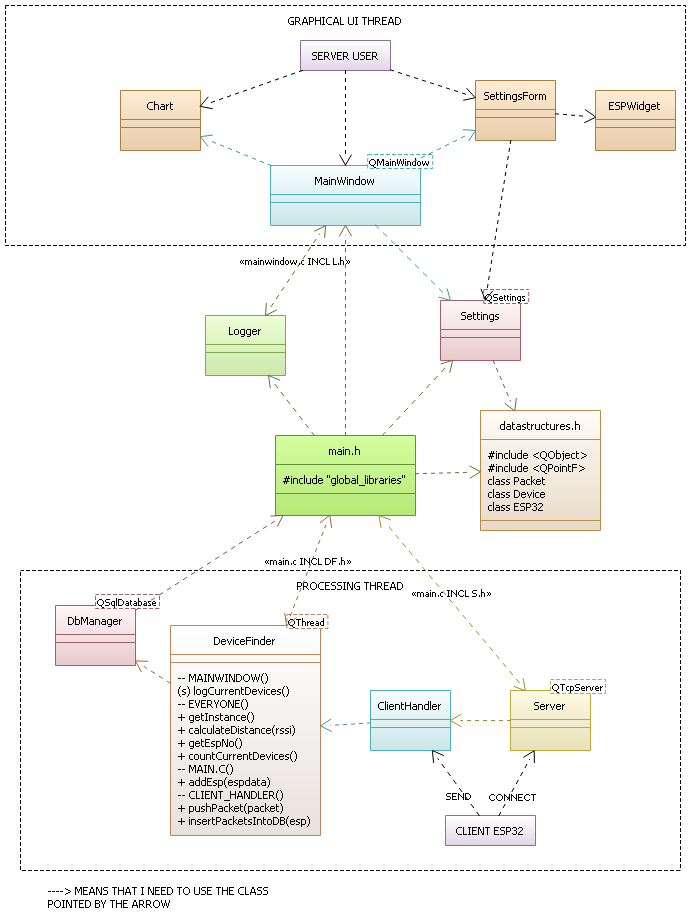
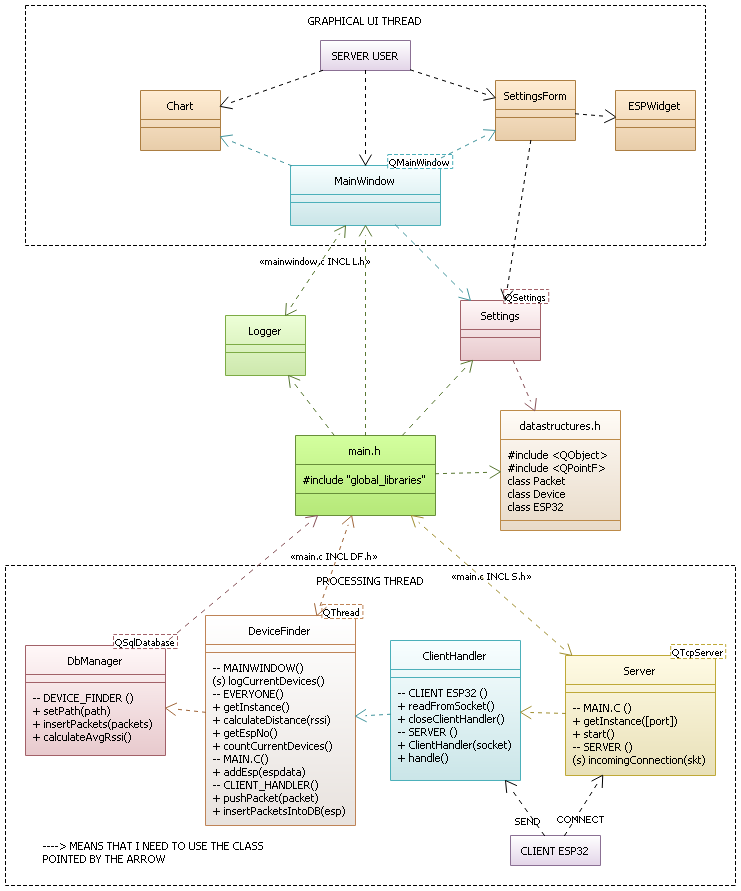
Refactored Server, ClientHandler and DbManager

diff --git a/dbmanager.cpp b/dbmanager.cpp
@@ -98,7 +98,7 @@ bool DbManager::createTables()
 /**
  * @brief Add a packet in the db
  */
-bool DbManager::addPacket(Packet r)
+bool DbManager::addPacket(Packet p)
 {
     writeLog("#DbManager");
     QSqlQuery query;
@@ -116,12 +116,12 @@ bool DbManager::addPacket(Packet r)
                   "VALUES (:id, :sender_mac, :timestamp, :rssi, :hashed_pkt,"
                   ":ssid, :espName)");
     query.bindValue(":id", id);
-    query.bindValue(":sender_mac", r.sender_mac);
-    query.bindValue(":timestamp", r.timestamp);
-    query.bindValue(":rssi", r.rssi);
-    query.bindValue(":hashed_pkt", r.hashed_pkt);
-    query.bindValue(":ssid", r.ssid);
-    query.bindValue(":espName", r.espName);
+    query.bindValue(":sender_mac", p.sender_mac);
+    query.bindValue(":timestamp", p.timestamp);
+    query.bindValue(":rssi", p.rssi);
+    query.bindValue(":hashed_pkt", p.hashed_pkt);
+    query.bindValue(":ssid", p.ssid);
+    query.bindValue(":espName", p.espName);
 
     res = query.exec();
     writeLog("Packet inserted: " + QString::number(res) + "/1" );
@@ -129,7 +129,7 @@ bool DbManager::addPacket(Packet r)
     return res;
 }
 
-bool DbManager::addPackets(QVector<Packet> packets)
+bool DbManager::insertPackets(QVector<Packet> packets)
 {
     writeLog("#DbManager");
     QSqlQuery query;
@@ -217,20 +217,6 @@ void DbManager::test()
         writeLog("id: " + QString::number(id));
         QString sender_mac = query.value(1).toString();
         writeLog("sender_mac: " + sender_mac);  
-    }
-}
-
-bool DbManager::saveCsv(Packet &r, const QString& path)
-{
-    QFile file(path);
-
-    if(file.open(QFile::WriteOnly | QIODevice::Append)) {
-        QTextStream stream(&file);
-        stream << r.toString() << endl;
-        file.close();
-        return true;
-    }else{
-        return false;
     }
 }
 

diff --git a/clienthandler.cpp b/clienthandler.cpp
@@ -52,11 +52,11 @@ void ClientHandler::handle()
     // (and when it disconnects)
     // note - Qt::DirectConnection
     //        This makes the slot to be invoked immediately, when the signal is emitted.
-    connect(socket, SIGNAL(readyRead()),
-            this, SLOT(readyRead()),
+    connect(socket, SIGNAL(readFromSocket()),
+            this, SLOT(readFromSocket()),
             Qt::DirectConnection);
-    connect(socket, SIGNAL(disconnected()),
-            this, SLOT(disconnected()));
+    connect(socket, SIGNAL(closeClientHandler()),
+            this, SLOT(closeClientHandler()));
 
     // alternative connect syntax with lambda
     //    connect(socket, &QTcpSocket::readyRead,
@@ -73,7 +73,7 @@ void ClientHandler::handle()
  *
  * @todo: add catch for runtime exceptions (like the socket already closed)
  */
-void ClientHandler::readyRead()
+void ClientHandler::readFromSocket()
 {
     writeLog("#ClientHandler");
     // get the information
@@ -177,7 +177,7 @@ void ClientHandler::readyRead()
 /**
  * @brief Callback called when the client disconnects
  */
-void ClientHandler::disconnected()
+void ClientHandler::closeClientHandler()
 {
     writeLog("#ClientHandler");
     writeLog(QString::number(socketDescriptor) + " Disconnected.");

diff --git a/devicefinder.cpp b/devicefinder.cpp
@@ -120,7 +120,7 @@ void DeviceFinder::pushPacket(Packet p)
 {
     writeLog("#DeviceFinder");
     writeLog("Received pkt\n" + p.toString());
-    db.saveCsv(p);
+    Logger::saveCsv(p);
     packets.push_back(p);
     //TODO: RIPULIRE DAI COMMENTI
     // IPOTESI: un dispositivo non invia due volte
@@ -141,7 +141,7 @@ bool DeviceFinder::insertPacketsIntoDB(QString espName)
         processLocationsFromPackets();
     }
 
-    bool res = db.addPackets(packets);
+    bool res = db.insertPackets(packets);
     if(res){//if insertion in database was succesfull we can clear the vector
         packets.clear();
         return true;

diff --git a/dbmanager.h b/dbmanager.h
@@ -21,15 +21,15 @@ class DbManager
 private:
     QSqlDatabase db;
     bool createTables();
+    bool addPacket(Packet p); //INEFFICIENT
     void test();
 
 public:
+    //DEVICE_FINDER
     DbManager(const QString& path);
-    bool saveCsv(Packet& packet, const QString& path = "output.txt");
     void setPath(QString p);
-    bool addPacket(Packet r);
-    bool addPackets(QVector<Packet> packets);
-    bool calculateAvgRssi();
+    bool insertPackets(QVector<Packet> packets);
+    bool calculateAvgRssi(); //to calculate position of devices
 };
 
 

diff --git a/logger.cpp b/logger.cpp
@@ -25,6 +25,20 @@ Logger *Logger::getInstance()
     return instance;
 }
 
+bool Logger::saveCsv(Packet &r, const QString &path)
+{
+    QFile file(path);
+
+    if(file.open(QFile::WriteOnly | QIODevice::Append)) {
+        QTextStream stream(&file);
+        stream << r.toString() << endl;
+        file.close();
+        return true;
+    }else{
+        return false;
+    }
+}
+
 /**
  * @brief Writes the log message in the correct way depending of the type
  * We are sure that this call is thread-safe (even if we did not use

diff --git a/clienthandler.h b/clienthandler.h
@@ -33,13 +33,14 @@ private:
 
 signals:
    void error(QTcpSocket::SocketError socketerror);
-   void contactedByAllESPs();
 
 public slots:
-   void readyRead();
-   void disconnected();
+   // CLIENT ESP32
+   void readFromSocket();
+   void closeClientHandler();
 
 public:
+   // SERVER
    explicit ClientHandler(qintptr s, QObject *parent = nullptr);
    void handle();
 };

diff --git a/logger.h b/logger.h
@@ -30,6 +30,7 @@ public slots:
 
 public:
     static Logger* getInstance();
+    static bool saveCsv(Packet& p, const QString& path = "output.txt");
 };
 
 void writeLog(const QString &text, QtMsgType type = QtDebugMsg);

diff --git a/server.h b/server.h
@@ -32,6 +32,7 @@ protected:
     void incomingConnection(qintptr socketDescriptor) override;
 
 public:
+    // MAIN.C
     static Server* getInstance(quint16 p);
     bool start();
 };
